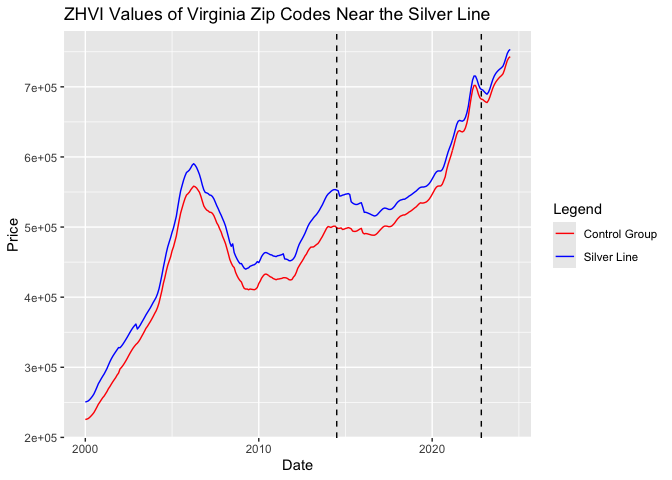
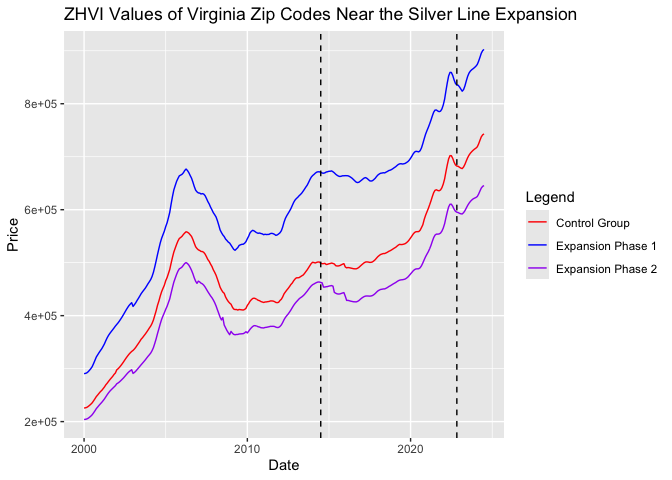
changed boxplot and graph

diff --git a/README.md b/README.md
@@ -134,12 +134,38 @@ Step 7: Create a boxplot to visualize the distribution of the outcome
 variable under treatment and no treatment.
 
 ``` r
-ggplot(df3, aes(x=Price)) +
-  geom_histogram() +
-  facet_wrap(~station_open) 
-```
+df_2014 <- df3 %>%
+  filter(zip_in_2014==1) %>%
+  group_by(date) %>%
+  summarize(average_price_2014 = mean(Price))
 
-    `stat_bin()` using `bins = 30`. Pick better value with `binwidth`.
+df_2022 <- df3 %>%
+  filter(zip_in_2022==1) %>%
+  group_by(date) %>%
+  summarize(average_price_2022 = mean(Price))
+
+df_years <- df_2014 %>% left_join(df_2022, by="date")
+
+df_control <- read.csv("dfsilvercontrol.csv")
+
+df_control2 <- df_control %>%
+  group_by(date) %>%
+  summarize(average_price_ctrl = mean(Price))
+
+df_control2$date <- as.Date(df_control2$date)
+
+df_combined <- df_control2 %>% left_join(df_years, by="date")
+
+df_boxplot <- df_combined %>%
+  pivot_longer(
+    cols = c('average_price_ctrl', 'average_price_2014', 'average_price_2022'),     # Specify the columns to pivot
+    names_to = "group",                    # New column for group (control, 2014, 2022)
+    values_to = "value"                    # New column for values
+  )
+
+ggplot(df_boxplot, aes(group,value)) +
+  geom_boxplot()
+```
 
 ![](README_files/figure-commonmark/unnamed-chunk-5-1.png)
 
@@ -328,31 +354,14 @@ treatment variable and combine it into one dataframe.
 ## Preliminary Graph
 
 ``` r
-by_opening <- df3 %>%
-  group_by(open_2014,open_2022,date) %>%
-  summarize(average_price = mean(Price))
-```
-
-    `summarise()` has grouped output by 'open_2014', 'open_2022'. You can override
-    using the `.groups` argument.
-
-``` r
-df_control <- read.csv("dfsilvercontrol.csv")
-
-df_control2 <- df_control %>%
-  group_by(date) %>%
-  summarize(average_price_ctrl = mean(Price))
-
-df_control2$date <- as.Date(df_control2$date)
-
-df_combined <- by_opening %>% left_join(df_control2, by="date")
 ggplot()+
-  geom_line(data=df_combined, aes(x=date,y=average_price,col="Silver Line")) +
+  geom_line(data=df_combined, aes(x=date,y=average_price_2014,col="Expansion Phase 1")) +
+  geom_line(data=df_combined, aes(x=date,y=average_price_2022,col="Expansion Phase 2")) +
   geom_line(data=df_combined, aes(x=date,y=average_price_ctrl,col="Control Group")) +
   geom_vline(xintercept = as.numeric(as.Date("2014-07-01")), color="black",linetype="dashed") +
   geom_vline(xintercept = as.numeric(as.Date("2022-11-01")), color="black",linetype="dashed") +
-  scale_color_manual("Legend", values=c("red", "blue")) +
-  labs(title = "ZHVI Values of Virginia Zip Codes Near the Silver Line", x = "Date", y = "Price")
+  scale_color_manual("Legend", values=c("red", "blue","purple")) +
+  labs(title = "ZHVI Values of Virginia Zip Codes Near the Silver Line Expansion", x = "Date", y = "Price")
 ```
 
 ![](README_files/figure-commonmark/unnamed-chunk-8-1.png)
